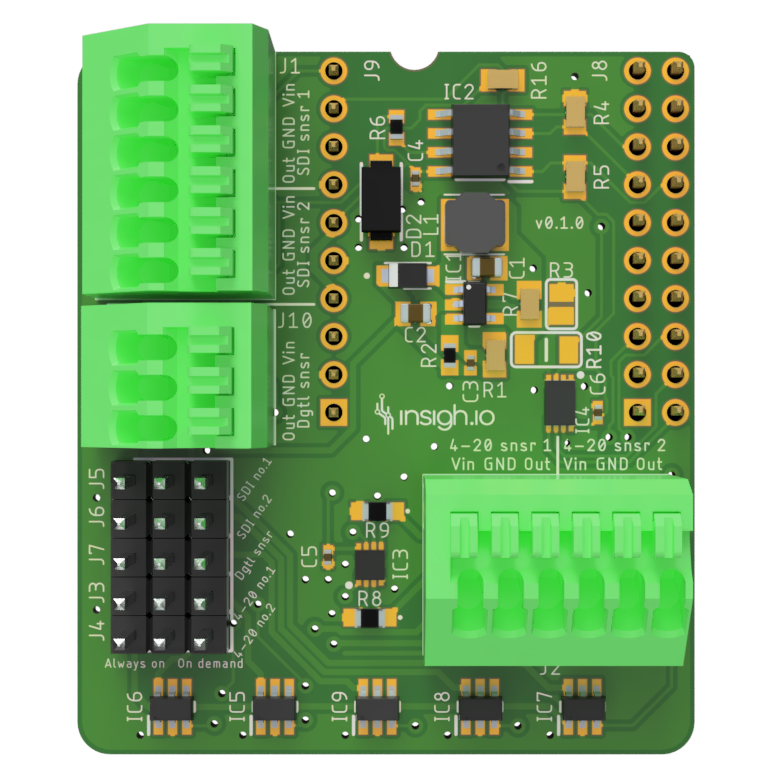
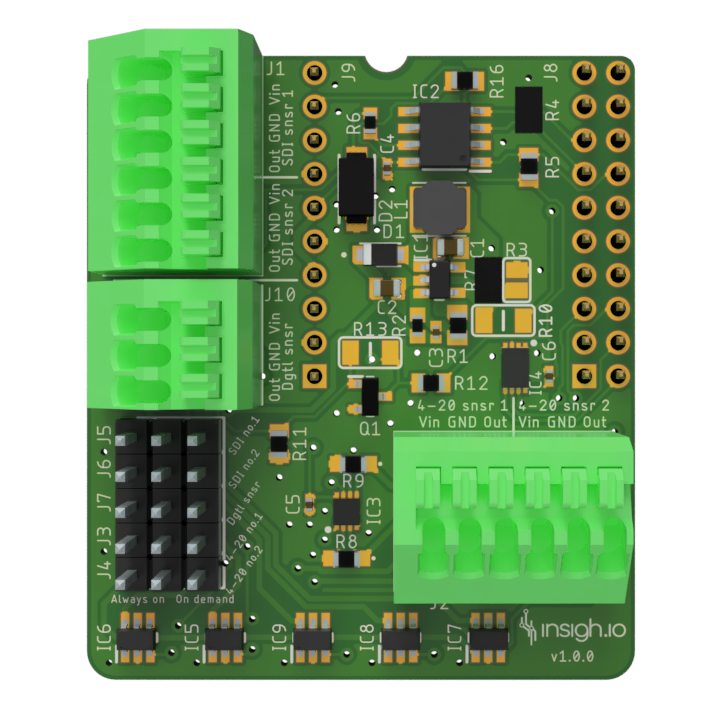
updated info for Advind shield based on latest HW version

diff --git a/content/hardware/shields/sensor-board/insighio-shield-advind.md b/content/hardware/shields/sensor-board/insighio-shield-advind.md
@@ -8,119 +8,136 @@ weight: 220
 ![shield sdi12 4-20mA pulse counter](/images/deviceimages/insighio-shield-advind.png?width=20pc)
 
 ### Scope
-Provide support for SDI-12, 4-20mA and pulse counter sensors with flexible configurations. It is applicable to Agriculture & Environmental Monitoring applications.
+
+Provide support for SDI-12, 4-20mA and pulse input sensors with flexible configurations. It is applicable to Agriculture & Environmental Monitoring applications.
 
 ### General Information
 
 |                                  |
-| :------------------------------- | :---------------------------------------------------------------- |
-| **Host board**                   | [insigh.io main board](../../../board/latest)       |
-| **Supported Digital Interfaces** | 2 x SDI-12 & 2 x 4-20mA & 1 x Pulse Counter                       |
-| **Sensor Headers**               | Fixed Terminal Block with push-in connection (no tools required)  |
-|                                  | 1x8-pin (SDI-12 & Pulse Counter) & 1x6-pin (4-20mA)               |
-| **Dimensions (L x W x H)**       | 41.3 x 47 x 16.7 mm                                               |
-| **Weight**                       | 16 g                                                              |
+| :------------------------------- | :--------------------------------------------------------------- |
+| **Host board**                   | [insigh.io main board](../../../board/latest)                    |
+| **Supported Digital Interfaces** | 2 x SDI-12 & 2 x 4-20mA & 1 x Pulse Counter                      |
+| **Sensor Headers**               | Fixed Terminal Block with push-in connection (no tools required) |
+|                                  | 1x8-pin (SDI-12 & Pulse Counter) & 1x6-pin (4-20mA)              |
+| **Dimensions (L x W x H)**       | 41.3 x 47 x 16.7 mm                                              |
+| **Weight**                       | 16 g                                                             |
 
 ### Example Applications
 
--   **Precision Agriculture**
-    -   Soil moisture, Electrical Conductivity, Volumetric Water Content, Temperature
--   **Environmental monitoring**
-    -   Water flow, water quality, Temperature, Humidity
-
+- **Precision Agriculture**
+  - Soil moisture, Electrical Conductivity, Volumetric Water Content, Temperature
+- **Environmental monitoring**
+  - Water flow, water quality, Temperature, Humidity
 
 ### Sensors Support (Hardware & Software)
 
 #### SDI-12 Interface
 
-|                                 |                                                                                  |
-| :-----------------------------  | :--------------------------------------------------------------------------------|
-| **Number of Supported Sensors** | Up to 2 (simultaneously), 3 pins (POWER,DATA,GND) each                           |
-|                                 | Up to 9 if external combiner is used                                             |
-| **Supply Voltage**              | 12V DC (external power supply may be used as well)                               |
-| **Maximum Drawn  Current**      | 1A                                                                               |
-| **Sensor models sw support**    | General SDI-12 Commands Implementation                                           |
-|                                 | Fully tested against the following models: TEROS-12 (METER) & TDR-315H (ACCLIMA) |
-| **Advanced Features**           | Resistors R7,R10,R3 for controlling "power" mode                                  |
-|                                 | Jumpers J5 & J6 for controlling "measurement" mode                               |
+|                                 |                                                                                                                      |
+| :------------------------------ | :------------------------------------------------------------------------------------------------------------------- |
+| **Number of Supported Sensors** | Up to 2 (simultaneously), 3 pins (POWER,DATA,GND) each                                                               |
+|                                 | Up to 9 if external combiner is used                                                                                 |
+| **Supply Voltage**              | 12V DC (external power supply may be used as well)                                                                   |
+| **Maximum Drawn Current**       | 300 mA                                                                                                               |
+| **Sensors Software Support**    | General SDI-12 Commands Implementation (C, M)                                                                        |
+|                                 | Fully tested against the following models: TEROS-12 (METER), TDR-315H (ACCLIMA), Sap Flow (IMPLEXX), LI-710 (LI-COR) |
+| **Advanced Features**           | Resistors R7,R10,R3 for controlling "power" mode                                                                     |
+|                                 | Jumpers J5 & J6 for controlling "measurement" mode                                                                   |
 
 #### 4-20mA Interface
 
-|                                 |                                                                                  |
-| :-----------------------------  | :--------------------------------------------------------------------------------|
-| **Number of Supported Sensors** | Up to 2 (simultaneously) / 2-wire or 4-wire                                      |
-| **Supply Voltage**              | 12V DC (external power supply may be used as well)                               |
-| **Maximum Drawn  Current**      | 1A                                                                               |
-| **Sensor models sw support**    | Sensor-agnostic, using a 2-channel analogue current sensing circuit              |
-|                                 | Fully tested with HAITRONIC 4-20mA 4-wire Digital Signal Generator Module Board) |
-| **Advanced Features**           | Jumpers J3 & J4 for controlling "measurement" mode                               |
+|                                 |                                                                     |
+| :------------------------------ | :------------------------------------------------------------------ |
+| **Number of Supported Sensors** | Up to 2 (simultaneously) x 2-wire or 4-wire                         |
+| **Supply Voltage**              | 12V DC (external power supply may be used as well)                  |
+| **Maximum Drawn Current**       | 300 mA                                                              |
+| **Sensors Software Support**    | Sensor-agnostic, using a 2-channel analogue current sensing circuit |
+|                                 | Fully tested with Ground Water Pressure Sensor PR26Y (KEPLER))      |
+| **Advanced Features**           | Jumpers J3 & J4 for controlling "measurement" mode                  |
 
 #### Generic Digital Interface
 
-|                                 |                                                       |
-| :-----------------------------  | :-----------------------------------------------------|
-| **Number of Supported Sensors** | 1                                                     |
-| **Supply Voltage**              | No, the sensor should be externally powered)          |
-| **Typical Usage**               | Pulse Counter (feature not supported yet in firmware) |
- **Advanced Features**           | Jumpers J7 for controlling "measurement" mode         |
-
+|                                 |                                                                 |
+| :------------------------------ | :-------------------------------------------------------------- |
+| **Number of Supported Sensors** | 1                                                               |
+| **Supply Voltage**              | No, the sensor should be externally powered)                    |
+| **Typical Usage**               | Pulse Counter                                                   |
+| **Advanced Features**           | Jumpers J7 for controlling "measurement" mode                   |
+|                                 | Ultra-Low Power Operation Option for background pulse recording |
 
 #### Advanced Features
+
 ##### "Power" mode
+
 There are 2 "power" modes for both SDI-12 and 4-20mA controlled via the PCB hardware & firmware:
-- __"Heating" mode (default)__: It applies continuous 12V DC. This is required by some sensor for condensation avoidance (e.g. Oxygen Sensor SO-411 from Apogee). It is enabled through mounting R7 (1K) and not mounting R10 (0 Ohm) & R3 (1M).
-- __"Low-power" mode__: This is a mode optimized for energy consumption. To select this mode remove R7 (1K) and mount R10 (0 Ohm) & R3 (1M). In this mode, the sensors are powered only during the micro-controller wake-up periods by enabling a special control pin from the firmware, i.e. IO37.
+
+- **"Heating" mode (default)**: It applies continuous 12V DC. This is required by some sensors for condensation avoidance (e.g. Oxygen Sensor SO-411 from Apogee) or special measurement procedure (e.g. Evapotranspiration Sensor which requires 30 min averaging). It is enabled through mounting R7 (1K) and not mounting R10 (0 Ohm) & R3 (1M).
+- **"Low-power" mode**: This is a mode optimized for energy consumption. To select this mode remove R7 (1K) and mount R10 (0 Ohm) & R3 (1M). In this mode, the sensors are powered only during the micro-controller wake-up periods by enabling a special control pin from the firmware, i.e. IO37.
 
 <add some photos>
 
 ##### "Measurement" mode
+
 In addition, with the use of Jumpers the user may control the "measurement" mode.
 There are 5 jumper sets:
-- __J5__ & __J6__ controls the __SDI-12 Sensor Port 1 and 2__ respectively
-- __J3__ & __J4__ controls the __4-20mA Sensor Port 1 and 2__ respectively
-- __J7__ controls the single __Digital Port__
+
+- **J5** & **J6** controls the **SDI-12 Sensor Port 1 and 2** respectively
+- **J3** & **J4** controls the **4-20mA Sensor Port 1 and 2** respectively
+- **J7** controls the single **Digital Port**
+
 The operation is controlled as follows:
-- If jumpers enable the __"always-on" mode__ (left-center pins), then the sensor data can be __accessed continuously__.
-- If jumpers enable the __"on-demand" mode__ (center-right pins), then the sensor data can be __accessed only when the proper control pin is enabled__.
-This is the most power-efficient mode. The control pins are:
-  - __SDI-12__ Sensors: __IO42__ & __IO48__ for Port 1 & Port 2 respectively
-  - __4-20mA__ Sensors: __IO7__ & __IO8__ for Port 1 & Port 2 respectively
-  - __Pulse Counter Sensor__: __IO6__
+
+- If jumpers enable the **"always-on" mode** (left-center pins), then the sensor data can be **accessed continuously**.
+- If jumpers enable the **"on-demand" mode** (center-right pins), then the sensor data can be **accessed only when the proper control pin is enabled**.
+
+"On-demand" mode is the most energy-efficient one. The control pins are:
+
+- **SDI-12** Sensors: **IO42** & **IO48** for Port 1 & Port 2 respectively
+- **4-20mA** Sensors: **IO7** & **IO8** for Port 1 & Port 2 respectively
+- **Pulse Counter Sensor**: **IO6**
 
 <add some photos>
 
 ##### 4-20mA Sensors Connection Instructions
+
 Below you may find the proper connection instructions for 2-wire/4-wire sensors in case internal (own board) or external power supply unit is used:
 
-- Sensor Type: __2-wire__
-  - Power Supply: __Internal__
+- Sensor Type: **2-wire**
+
+  - Power Supply: **Internal**
     - Sensor PWR pin connected to VIN board port
     - Sensor OUT pin connected to OUT board port
-  - Power Supply: __External__
+  - Power Supply: **External**
     - Sensor PWR pin connected to External Supply Positive Pin (+)
     - Sensor GND pin connected to External Supply Negative Pin (-)
     - Sensor OUT pin connected to OUT board port
 
-
-- Sensor Type: __4-wire__
-  - Power Supply: __Internal__
+- Sensor Type: **4-wire**
+  - Power Supply: **Internal**
     - Sensor PWR pin connected to VIN board port
     - Sensor 1st GND pin connected to GND board port
     - Sensor 2nd GND pin connected to same GND board port
     - Sensor OUT pin connected to OUT board port
-  - Power Supply: __External__
+  - Power Supply: **External**
     - Sensor PWR pin connected to External Supply Positive Pin (+)
     - Sensor 1st GND pin connected to External Supply Negative Pin (-)
     - Sensor 2nd GND pin connected to GND board port
     - Sensor OUT pin connected to OUT board port
 
+##### Pulse Counter Ultra Low Power Operation Option
+
+Many devices, like **rain gauges** or **water flow sensors** generate one or more pulses when certain liquid volume has been observed.
+This is different from typical SDI-12 and 4-20mA measurement scenarios, where we need to periodically wake up our IoT device (e.g. once per our hour), take a measurement and then go to deep sleep.
+Instead, with pulse generating sensors we need to continuously "capture" the pulses while not exhausting battery life.
+For this purpose we are supporting through **[firmware version 2.9.0 and on](https://github.com/insighio/insighioNode/releases/tag/v2.9.0)** a special operating mode called **ULP**, which hosts the pulse counting measurement into an ultra-low processor drawing less than 400uA for up to 5kHz pulse frequencies.
+
 ### Marking
 
-|          |           |
-| :------- | :-------- |
-| **CE**   | _planned_ |
-| **FCC**  | _planned_ |
-| **RoHS** | _planned_ |
+|          |             |
+| :------- | :---------- |
+| **CE**   | _under way_ |
+| **FCC**  | _under way_ |
+| **RoHS** | _under way_ |
 
 ## Custom designs
 
